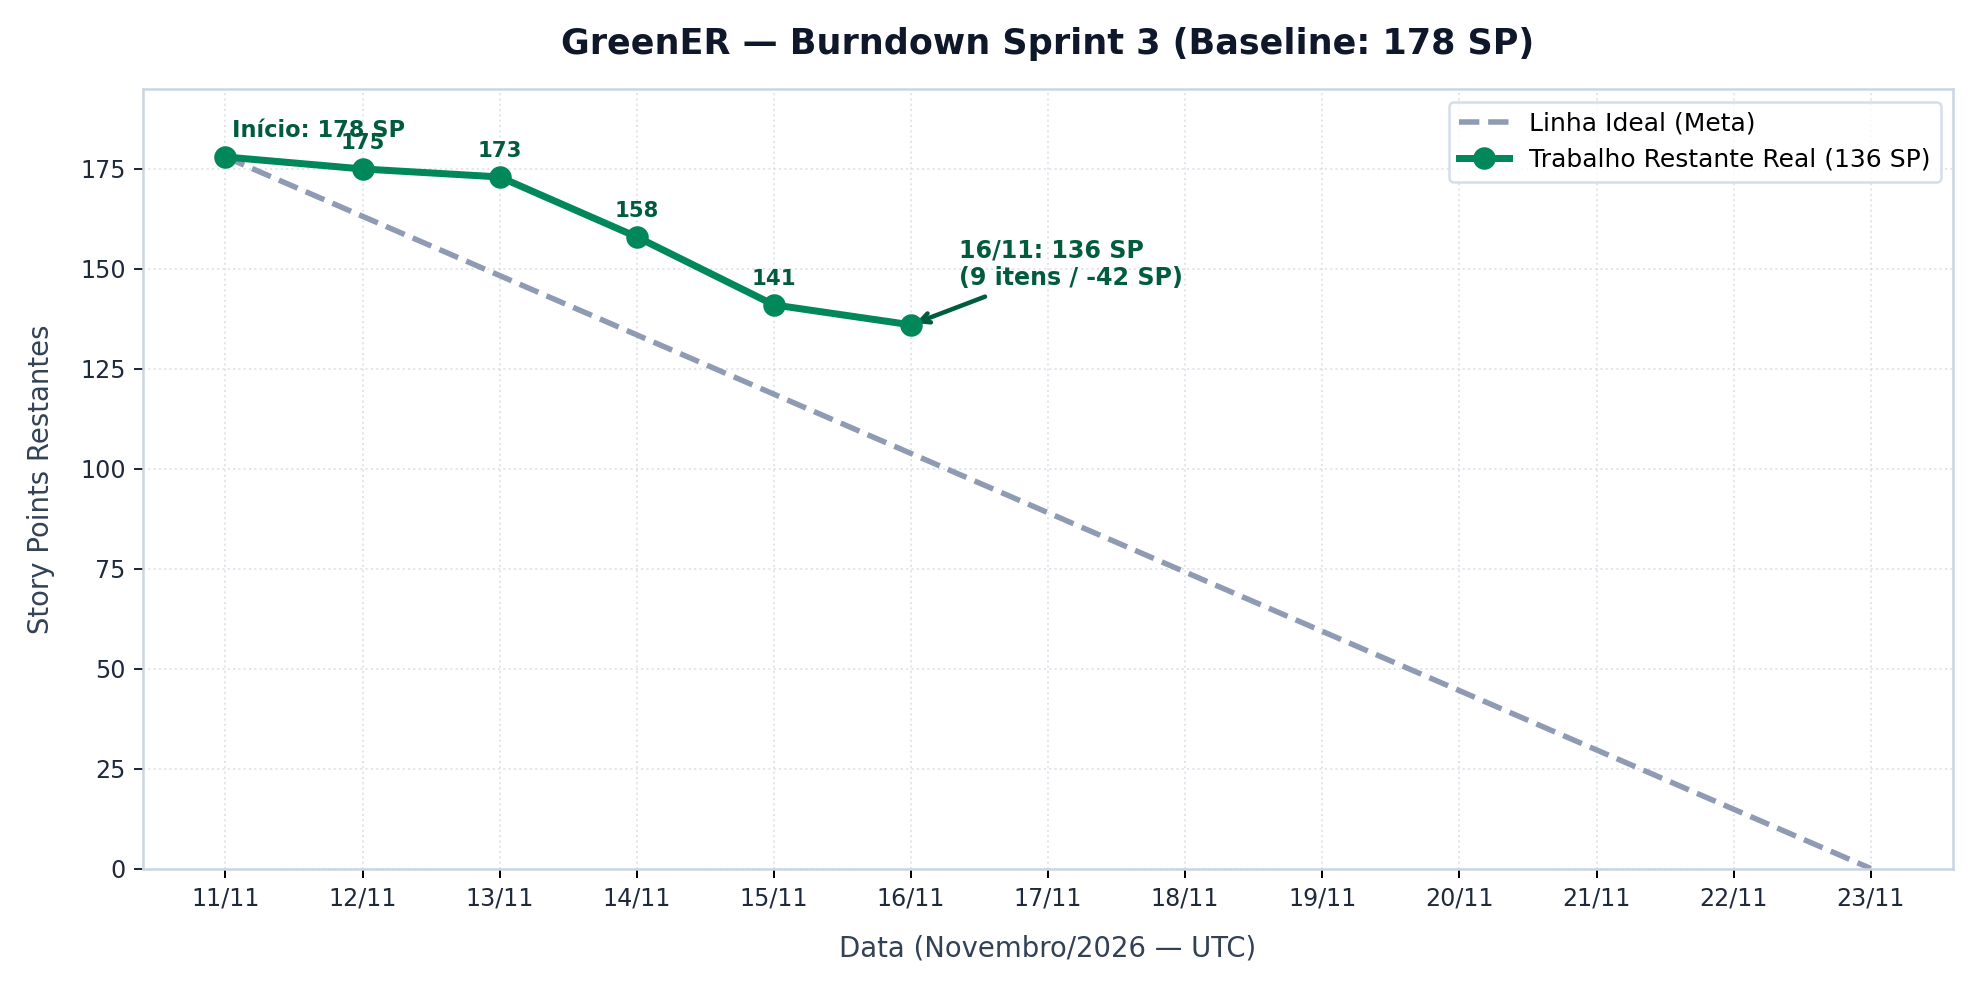
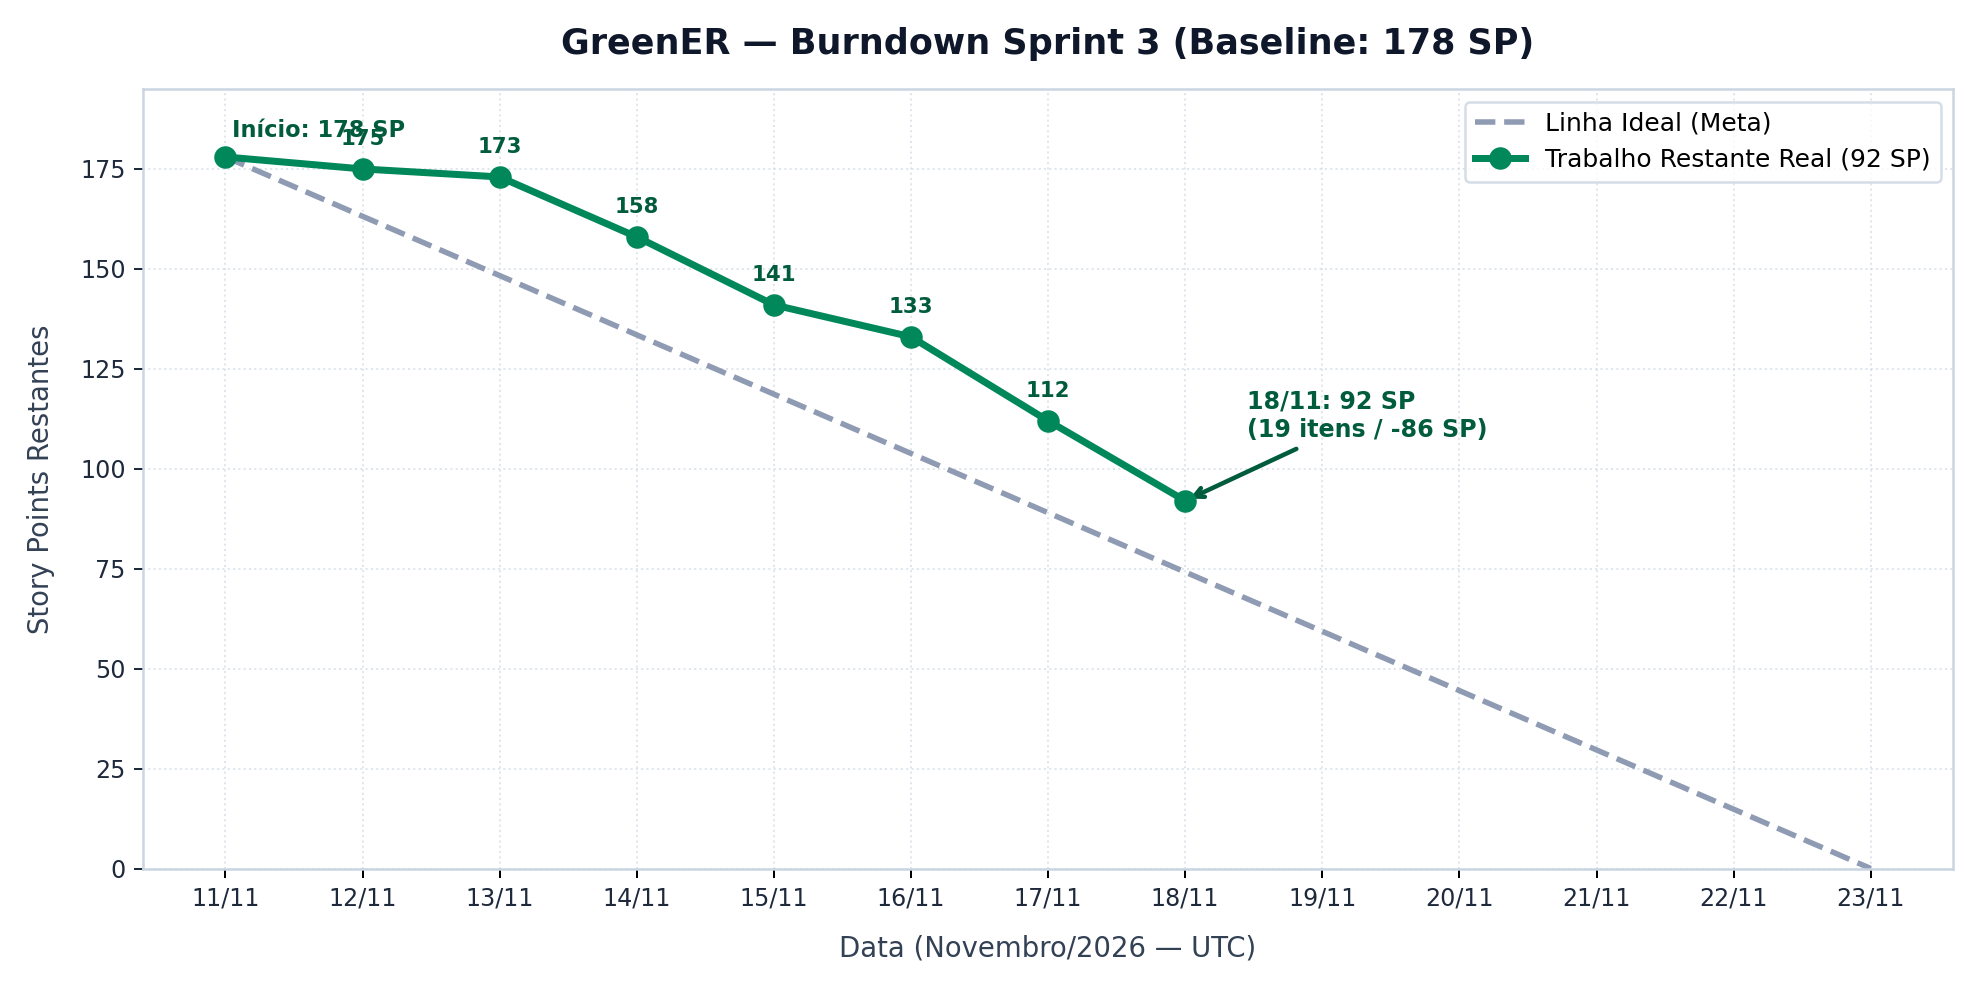
docs(burndown): atualiza burndown da Sprint 3 para 92 SP restantes (18/11)

diff --git a/docs/sprints/sprint-3.md b/docs/sprints/sprint-3.md
@@ -37,34 +37,34 @@ A tabela abaixo lista os 51 itens que compõem o escopo devedor da Sprint 3:
 | [#85](https://github.com/abpundefined/3DSM-ABP-UNDEFINED/issues/85) | [TASK] Navegação, rotas e biblioteca de gráficos | 2 | Nadla Ferreira | #35 | Done |
 | [#86](https://github.com/abpundefined/3DSM-ABP-UNDEFINED/issues/86) | [TASK] Seletor de período compartilhado (frontend) | 5 | Nadla Ferreira | #35 | Done |
 | [#88](https://github.com/abpundefined/3DSM-ABP-UNDEFINED/issues/88) | [TASK] Endpoint GET /ranking | 3 | Marcus Nascimento | #35 | Done |
-| [#91](https://github.com/abpundefined/3DSM-ABP-UNDEFINED/issues/91) | [TASK] Página de ranking | 6 | Nadla Ferreira | #35 | Backlog |
+| [#91](https://github.com/abpundefined/3DSM-ABP-UNDEFINED/issues/91) | [TASK] Página de ranking | 6 | Nadla Ferreira | #35 | Done |
 | [#93](https://github.com/abpundefined/3DSM-ABP-UNDEFINED/issues/93) | [TASK] Endpoint GET /comparacao | 5 | Pedro Gomes | #35 | Done |
 | [#94](https://github.com/abpundefined/3DSM-ABP-UNDEFINED/issues/94) | [TASK] Página de comparação | 6 | Thales Cambraia | #35 | Backlog |
 | [#95](https://github.com/abpundefined/3DSM-ABP-UNDEFINED/issues/95) | [TASK] Endpoint GET /mapa | 5 | Israel Lemes | #35 | Done |
 | [#96](https://github.com/abpundefined/3DSM-ABP-UNDEFINED/issues/96) | [TASK] Mapa animado no frontend | 9 | Israel Lemes | #35 | Done |
-| [#98](https://github.com/abpundefined/3DSM-ABP-UNDEFINED/issues/98) | [TASK] Endpoint GET /servicos/:id/historico | 3 | Marcus Nascimento | #33 | Backlog |
-| [#99](https://github.com/abpundefined/3DSM-ABP-UNDEFINED/issues/99) | [TASK] Página de detalhe do serviço | 7 | Rainan Reis | #33 | Backlog |
+| [#98](https://github.com/abpundefined/3DSM-ABP-UNDEFINED/issues/98) | [TASK] Endpoint GET /servicos/:id/historico | 3 | Marcus Nascimento | #33 | Done |
+| [#99](https://github.com/abpundefined/3DSM-ABP-UNDEFINED/issues/99) | [TASK] Página de detalhe do serviço | 7 | Rainan Reis | #33 | Done |
 | [#80](https://github.com/abpundefined/3DSM-ABP-UNDEFINED/issues/80) | [TASK] Paginação do GET /coletas | 3 | Pedro Gomes | #33 | Backlog |
 | [#78](https://github.com/abpundefined/3DSM-ABP-UNDEFINED/issues/78) | [PBI] Página de administração dos intervalos (frontend) | 5 | Nadla Ferreira | #36 | Done |
-| [#81](https://github.com/abpundefined/3DSM-ABP-UNDEFINED/issues/81) | [PBI] Avaliação heurística e avaliação com usuários (IHC05/IHC06) | 8 | Thales Cambraia | #37 | Backlog |
+| [#81](https://github.com/abpundefined/3DSM-ABP-UNDEFINED/issues/81) | [PBI] Avaliação heurística e avaliação com usuários (IHC05/IHC06) | 8 | Thales Cambraia | #37 | Done |
 | [#101](https://github.com/abpundefined/3DSM-ABP-UNDEFINED/issues/101) | [PBI-26] Melhorias de usabilidade (P01 a P08) | 8 | Thales Cambraia | #37 | Backlog |
 | [#103](https://github.com/abpundefined/3DSM-ABP-UNDEFINED/issues/103) | [TASK] Cobertura de 80% em todos os services e repositories | 3 | Marcus Nascimento | #37 | Backlog |
-| [#104](https://github.com/abpundefined/3DSM-ABP-UNDEFINED/issues/104) | [TASK] Testes E2E de API com PostgreSQL no CI | 5 | Israel Lemes | #37 | Backlog |
+| [#104](https://github.com/abpundefined/3DSM-ABP-UNDEFINED/issues/104) | [TASK] Testes E2E de API com PostgreSQL no CI | 5 | Israel Lemes | #37 | Done |
 | [#105](https://github.com/abpundefined/3DSM-ABP-UNDEFINED/issues/105) | [TASK] Testes de componentes do frontend | 5 | Pedro Gomes | #37 | Backlog |
-| [#106](https://github.com/abpundefined/3DSM-ABP-UNDEFINED/issues/106) | [TASK] CI completo | 5 | Marcus Nascimento | #32 | Backlog |
+| [#106](https://github.com/abpundefined/3DSM-ABP-UNDEFINED/issues/106) | [TASK] CI completo | 5 | Marcus Nascimento | #32 | Done |
 | [#21](https://github.com/abpundefined/3DSM-ABP-UNDEFINED/issues/21) | [PBI-21] Documentação técnica | 5 | Rainan Reis | #37 | Backlog |
 | [#108](https://github.com/abpundefined/3DSM-ABP-UNDEFINED/issues/108) | [TASK] Planejamento e burndown da Sprint 3 | 2 | Rainan Reis | #37 | Backlog |
 | [#109](https://github.com/abpundefined/3DSM-ABP-UNDEFINED/issues/109) | [TASK] Roteiro e vídeo da apresentação da Sprint 3 | 3 | Rainan Reis | #37 | Backlog |
-| [#110](https://github.com/abpundefined/3DSM-ABP-UNDEFINED/issues/110) | [TASK] Endpoint GET /indicadores/serie | 2 | Marcus Nascimento | #34 | Backlog |
+| [#110](https://github.com/abpundefined/3DSM-ABP-UNDEFINED/issues/110) | [TASK] Endpoint GET /indicadores/serie | 2 | Marcus Nascimento | #34 | Done |
 | [#111](https://github.com/abpundefined/3DSM-ABP-UNDEFINED/issues/111) | [TASK] Tendência no dashboard | 4 | Nadla Ferreira | #34 | Backlog |
 | [#114](https://github.com/abpundefined/3DSM-ABP-UNDEFINED/issues/114) | [PBI-27] Variação em relação ao período anterior | 4 | Pedro Gomes | #35 | Backlog |
-| [#115](https://github.com/abpundefined/3DSM-ABP-UNDEFINED/issues/115) | [PBI-28] Simulador "e se mudasse de região?" | 3 | Israel Lemes | #35 | Backlog |
+| [#115](https://github.com/abpundefined/3DSM-ABP-UNDEFINED/issues/115) | [PBI-28] Simulador "e se mudasse de região?" | 3 | Israel Lemes | #35 | Done |
 | [#116](https://github.com/abpundefined/3DSM-ABP-UNDEFINED/issues/116) | [PBI-29] Equivalências do CO₂e | 1 | Rainan Reis | #34 | Backlog |
 | [#117](https://github.com/abpundefined/3DSM-ABP-UNDEFINED/issues/117) | [PBI-30] Página "Como calculamos" | 2 | Rainan Reis | #37 | Backlog |
 | [#118](https://github.com/abpundefined/3DSM-ABP-UNDEFINED/issues/118) | [PBI-31] Exportar relatório CSV do período | 2 | Marcus Nascimento | #35 | Backlog |
 | [#119](https://github.com/abpundefined/3DSM-ABP-UNDEFINED/issues/119) | [PBI-33] Oportunidades de redução de emissão | 5 | Pedro Gomes | #35 | Backlog |
 | [#120](https://github.com/abpundefined/3DSM-ABP-UNDEFINED/issues/120) | [PBI-34] Selo de eficiência A a F | 3 | Marcus Nascimento | #34 | Backlog |
-| [#122](https://github.com/abpundefined/3DSM-ABP-UNDEFINED/issues/122) | [TASK] Endpoint GET /intensidade/horarios | 2 | Marcus Nascimento | #35 | Backlog |
+| [#122](https://github.com/abpundefined/3DSM-ABP-UNDEFINED/issues/122) | [TASK] Endpoint GET /intensidade/horarios | 2 | Marcus Nascimento | #35 | Done |
 | [#123](https://github.com/abpundefined/3DSM-ABP-UNDEFINED/issues/123) | [TASK] Mapa de calor do melhor horário | 3 | Israel Lemes | #35 | Backlog |
 | [#124](https://github.com/abpundefined/3DSM-ABP-UNDEFINED/issues/124) | [PBI-36] Linha do tempo de estado e disponibilidade | 3 | Rainan Reis | #33 | Backlog |
 | [#125](https://github.com/abpundefined/3DSM-ABP-UNDEFINED/issues/125) | [PBI-37] Corrida de barras do ranking | 3 | Nadla Ferreira | #35 | Backlog |
@@ -74,7 +74,7 @@ A tabela abaixo lista os 51 itens que compõem o escopo devedor da Sprint 3:
 | [#130](https://github.com/abpundefined/3DSM-ABP-UNDEFINED/issues/130) | [TASK] Projeção e meta no frontend | 3 | Pedro Gomes | #36 | Backlog |
 | [#131](https://github.com/abpundefined/3DSM-ABP-UNDEFINED/issues/131) | [PBI-41] Contadores animados e transições de ordem | 1 | Thales Cambraia | #34 | Backlog |
 | [#133](https://github.com/abpundefined/3DSM-ABP-UNDEFINED/issues/133) | [PBI-42] Relatório do período (imprimir ou salvar PDF) | 3 | Rainan Reis | #35 | Backlog |
-| [#135](https://github.com/abpundefined/3DSM-ABP-UNDEFINED/issues/135) | [PBI-43] Saúde das integrações (administração) | 3 | Israel Lemes | #36 | Backlog |
+| [#135](https://github.com/abpundefined/3DSM-ABP-UNDEFINED/issues/135) | [PBI-43] Saúde das integrações (administração) | 3 | Israel Lemes | #36 | Done |
 | [#136](https://github.com/abpundefined/3DSM-ABP-UNDEFINED/issues/136) | [PBI-44] Modo TV para tela de monitoramento | 2 | Nadla Ferreira | #34 | Backlog |
 | [#139](https://github.com/abpundefined/3DSM-ABP-UNDEFINED/issues/139) | [TASK] Composição da energia no backend | 1 | Marcus Nascimento | #34 | Backlog |
 | [#140](https://github.com/abpundefined/3DSM-ABP-UNDEFINED/issues/140) | [TASK] Gráfico de composição da energia | 2 | Rainan Reis | #34 | Backlog |

diff --git a/docs/burndown-sprint-3.md b/docs/burndown-sprint-3.md
@@ -32,4 +32,6 @@ A baixa de pontos no burndown segue estritamente o critério de **aceite e fecha
 - **13/11/2026:** 173 SP restantes (+1 item concluído: [#85](https://github.com/abpundefined/3DSM-ABP-UNDEFINED/issues/85) — 2 SP, via PR [#162](https://github.com/abpundefined/3DSM-ABP-UNDEFINED/pull/162)).
 - **14/11/2026:** 158 SP restantes (+3 itens concluídos: [#95](https://github.com/abpundefined/3DSM-ABP-UNDEFINED/issues/95) — 5 SP via PR [#163](https://github.com/abpundefined/3DSM-ABP-UNDEFINED/pull/163); [#79](https://github.com/abpundefined/3DSM-ABP-UNDEFINED/issues/79) — 5 SP via PR [#164](https://github.com/abpundefined/3DSM-ABP-UNDEFINED/pull/164); [#86](https://github.com/abpundefined/3DSM-ABP-UNDEFINED/issues/86) — 5 SP via PR [#165](https://github.com/abpundefined/3DSM-ABP-UNDEFINED/pull/165)).
 - **15/11/2026:** 141 SP restantes (+3 itens concluídos: [#96](https://github.com/abpundefined/3DSM-ABP-UNDEFINED/issues/96) — 9 SP via PR [#170](https://github.com/abpundefined/3DSM-ABP-UNDEFINED/pull/170); [#88](https://github.com/abpundefined/3DSM-ABP-UNDEFINED/issues/88) — 3 SP via PR [#169](https://github.com/abpundefined/3DSM-ABP-UNDEFINED/pull/169); [#78](https://github.com/abpundefined/3DSM-ABP-UNDEFINED/issues/78) — 5 SP via PR [#171](https://github.com/abpundefined/3DSM-ABP-UNDEFINED/pull/171)). Acumulado: 8 itens concluídos (37 SP entregues).
-- **16/11/2026:** 136 SP restantes (+1 item concluído: [#93](https://github.com/abpundefined/3DSM-ABP-UNDEFINED/issues/93) — 5 SP via PR [#174](https://github.com/abpundefined/3DSM-ABP-UNDEFINED/pull/174)). Acumulado: 9 itens concluídos (42 SP entregues).
+- **16/11/2026:** 133 SP restantes (+2 itens concluídos: [#93](https://github.com/abpundefined/3DSM-ABP-UNDEFINED/issues/93) — 5 SP via PR [#174](https://github.com/abpundefined/3DSM-ABP-UNDEFINED/pull/174); [#98](https://github.com/abpundefined/3DSM-ABP-UNDEFINED/issues/98) — 3 SP via PR [#179](https://github.com/abpundefined/3DSM-ABP-UNDEFINED/pull/179)).
+- **17/11/2026:** 112 SP restantes (+6 itens concluídos: [#110](https://github.com/abpundefined/3DSM-ABP-UNDEFINED/issues/110) — 2 SP via PR [#185](https://github.com/abpundefined/3DSM-ABP-UNDEFINED/pull/185); [#122](https://github.com/abpundefined/3DSM-ABP-UNDEFINED/issues/122) — 2 SP via PR [#187](https://github.com/abpundefined/3DSM-ABP-UNDEFINED/pull/187); [#135](https://github.com/abpundefined/3DSM-ABP-UNDEFINED/issues/135) — 3 SP via PR [#188](https://github.com/abpundefined/3DSM-ABP-UNDEFINED/pull/188); [#115](https://github.com/abpundefined/3DSM-ABP-UNDEFINED/issues/115) — 3 SP via PR [#182](https://github.com/abpundefined/3DSM-ABP-UNDEFINED/pull/182); [#104](https://github.com/abpundefined/3DSM-ABP-UNDEFINED/issues/104) — 5 SP via PR [#183](https://github.com/abpundefined/3DSM-ABP-UNDEFINED/pull/183); [#91](https://github.com/abpundefined/3DSM-ABP-UNDEFINED/issues/91) — 6 SP via PR [#186](https://github.com/abpundefined/3DSM-ABP-UNDEFINED/pull/186)).
+- **18/11/2026:** 92 SP restantes (+3 itens concluídos: [#106](https://github.com/abpundefined/3DSM-ABP-UNDEFINED/issues/106) — 5 SP via PR [#190](https://github.com/abpundefined/3DSM-ABP-UNDEFINED/pull/190); [#99](https://github.com/abpundefined/3DSM-ABP-UNDEFINED/issues/99) — 7 SP via PRs [#173](https://github.com/abpundefined/3DSM-ABP-UNDEFINED/pull/173), [#177](https://github.com/abpundefined/3DSM-ABP-UNDEFINED/pull/177) e [#194](https://github.com/abpundefined/3DSM-ABP-UNDEFINED/pull/194); [#81](https://github.com/abpundefined/3DSM-ABP-UNDEFINED/issues/81) — 8 SP via PRs [#166](https://github.com/abpundefined/3DSM-ABP-UNDEFINED/pull/166), [#167](https://github.com/abpundefined/3DSM-ABP-UNDEFINED/pull/167), [#175](https://github.com/abpundefined/3DSM-ABP-UNDEFINED/pull/175) e [#180](https://github.com/abpundefined/3DSM-ABP-UNDEFINED/pull/180)). Acumulado: 19 itens concluídos (86 SP entregues).
